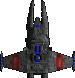
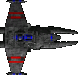
Implemented rotation and movement. Created messages to get/update ship parameters. Added init_world transform setting for the ships. All ship parameters are now uint16 and tweaked their values to get a decent gameplay response

diff --git a/include/messages.h b/include/messages.h
@@ -12,7 +12,13 @@ enum EMessageType {
 	EMT_GET_POS,
 	EMT_GET_ROT,
 	EMT_UPDATE_POS,
-	EMT_UPDATE_ROT
+	EMT_UPDATE_ROT,
+	EMT_GET_HP,
+	EMT_UPDATE_HP,
+	EMT_GET_ENERGY,
+	EMT_UPDATE_ENERGY,
+	EMT_GET_LINEAR_SPEED,
+	EMT_GET_ANGULAR_SPEED
 };
 
 struct SMessage {
@@ -29,13 +35,6 @@ struct SInputMsg: public SMessage {
 	uint32 m_id;
 };
 
-struct SUpdatePosMsg: public SMessage {
-	SUpdatePosMsg(): SMessage(EMT_UPDATE_POS) {}
-	SUpdatePosMsg(float offsetX, float offsetY): SMessage(EMT_UPDATE_POS),
-		m_offsetX(offsetX), m_offsetY(offsetY) {}
-	float m_offsetX, m_offsetY;
-};
-
 struct SSetPosMsg: public SMessage {
 	SSetPosMsg(): SMessage(EMT_SET_POS) {}
 	SSetPosMsg(float x, float y): SMessage(EMT_SET_POS),
@@ -44,12 +43,23 @@ struct SSetPosMsg: public SMessage {
 	float m_x, m_y;
 };
 
-struct SUpdateRotMsg: public SMessage {
-	SUpdateRotMsg(): SMessage(EMT_UPDATE_ROT) {}
-	SUpdateRotMsg(float offsetR): SMessage(EMT_UPDATE_ROT),
-		m_offsetRot(offsetR) {
+struct SGetPosMsg: public SMessage {
+	SGetPosMsg(): SMessage(EMT_GET_POS), m_x(0), m_y(0), m_modified(false) {}
+	void SetPos(float x, float y) { m_x = x; m_y = y; m_modified = true; }
+	float GetX() const { return m_x; }
+	float GetY() const { return m_y; }
+	bool Modified() { return m_modified; }
+private:
+	float m_x, m_y;
+	bool m_modified;
+};
+
+struct SUpdatePosMsg: public SMessage {
+	SUpdatePosMsg(): SMessage(EMT_UPDATE_POS) {}
+	SUpdatePosMsg(float offsetX, float offsetY): SMessage(EMT_UPDATE_POS),
+		m_offsetX(offsetX), m_offsetY(offsetY) {
 	}
-	float m_offsetRot;
+	float m_offsetX, m_offsetY;
 };
 
 struct SSetRotMsg: public SMessage {
@@ -60,28 +70,71 @@ struct SSetRotMsg: public SMessage {
 	float m_rot;
 };
 
-struct SGetPosMsg: public SMessage {
-	SGetPosMsg(): SMessage(EMT_GET_POS) {}
-	void SetPos(float x, float y) {
-		m_x = x;
-		m_y = y;
-		m_modified = true;
-	}
+struct SGetRotMsg: public SMessage {
+	SGetRotMsg(): SMessage(EMT_GET_ROT), m_angle(0), m_modified(false) {}
+	void SetRot(float angle) { m_angle = angle; m_modified = true; }
+	float GetAngle() const { return m_angle; }
 	bool Modified() { return m_modified; }
-	float m_x, m_y;
 private:
+	float m_angle;
 	bool m_modified;
 };
 
-struct SGetRotMsg: public SMessage {
-	SGetRotMsg(): SMessage(EMT_GET_ROT) {}
-	void SetRot(float angle) {
-		m_angle = angle;
-		m_modified = true;
+struct SUpdateRotMsg: public SMessage {
+	SUpdateRotMsg(): SMessage(EMT_UPDATE_ROT) {}
+	SUpdateRotMsg(float offsetR): SMessage(EMT_UPDATE_ROT),
+		m_offsetRot(offsetR) {
 	}
+	float m_offsetRot;
+};
+
+struct SGetHitPointsMsg: public SMessage {
+	SGetHitPointsMsg(): SMessage(EMT_GET_HP), m_hitPoints(0) {}
+	void SetHitPoints(uint16 hp) { m_hitPoints = hp; m_modified = true;	}
+	uint16 GetHitPoints() const { return m_hitPoints; }
 	bool Modified() { return m_modified; }
-	float m_angle;
 private:
+	uint16 m_hitPoints;
+	bool m_modified;
+};
+
+struct SUpdateHitPointsMsg: public SMessage {
+	SUpdateHitPointsMsg(uint16 dmg = 0): SMessage(EMT_UPDATE_HP), m_damage(dmg) {}
+	uint16 m_damage;
+};
+
+struct SGetEnergyMsg: public SMessage {
+	SGetEnergyMsg(): SMessage(EMT_GET_ENERGY), m_energy(0) {}
+	void SetEnergy(uint16 en) { m_energy = en; m_modified = true; }
+	uint16 GetEnergy() const { return m_energy; }
+	bool Modified() { return m_modified; }
+private:
+	uint16 m_energy;
+	bool m_modified;
+};
+
+struct SUpdateEnergyMsg: public SMessage {
+	SUpdateEnergyMsg(uint16 energy = 0): SMessage(EMT_UPDATE_ENERGY), m_energy(energy) {}
+	uint16 m_energy;
+};
+
+struct SGetLinSpeedMsg: public SMessage {
+	SGetLinSpeedMsg(): SMessage(EMT_GET_LINEAR_SPEED), m_linSpeed(0) {}
+	void SetLinSpeed(uint16 lSpeed) { m_linSpeed = lSpeed; m_modified = true; }
+	int16 GetLinSpeed() const { return m_linSpeed; }
+	bool Modified() { return m_modified; }
+private:
+	int16 m_linSpeed;
+	bool m_modified;
+};
+
+struct SGetAngSpeedMsg: public SMessage {
+	SGetAngSpeedMsg(): SMessage(EMT_GET_ANGULAR_SPEED), m_angSpeed(0) {}
+	void SetAngSpeed(uint16 aSpeed) { m_angSpeed = aSpeed; m_modified = true; }
+	int16 GetAngSpeed() const { return m_angSpeed; }
+	bool Modified() { return m_modified; }
+private:
+	int16 m_angSpeed;
 	bool m_modified;
 };
 

diff --git a/src/comp_playercontrol.cpp b/src/comp_playercontrol.cpp
@@ -5,40 +5,79 @@
 #include "../include/entity.h"
 #include "../include/messages.h"
 #include "../include/math.h"
+#include "../include/screen.h"
 
 CCompPlayerControl::CCompPlayerControl(CEntity * et): CComponent(et) {
 	SetType(EC_PLAYER_CONTROL);
 }
 
 void CCompPlayerControl::ReceiveMessage(SMessage &msg) {
+	double elapsed = Screen::Instance().ElapsedTime();
 	if (msg.m_type == EMT_INPUT) {
 		SInputMsg &inputMsg = reinterpret_cast<SInputMsg &>(msg);
 		if (inputMsg.m_controller == EEC_KEYBOARD) {
 			if (inputMsg.m_id == m_controls[0]) { //up
-				SGetRotMsg getRotMsg;
-				m_owner->ReceiveMessage(getRotMsg);
-
-				float offsetX = kPosUpdateOffset;
-				float offsetY = kPosUpdateOffset;
-				if (getRotMsg.Modified()) {
-					offsetX *= cos(WrapValue(getRotMsg.m_angle, 360));
-					offsetY *= sin(WrapValue(getRotMsg.m_angle, 360));
+				float offsetX = 0, offsetY = 0;
+				if (GetLinearOffset(offsetX, offsetY)) {
+					SUpdatePosMsg updateMsg(offsetX, offsetY);
+					m_owner->ReceiveMessage(updateMsg);
 				}
-
-				SUpdatePosMsg updateMsg(offsetX, offsetY);
-				m_owner->ReceiveMessage(updateMsg);
 			} else if (inputMsg.m_id == m_controls[1]) { //down
-				SUpdatePosMsg updateMsg(0, kPosUpdateOffset);
-				m_owner->ReceiveMessage(updateMsg);
+				float offsetX = 0, offsetY = 0;
+				GetLinearOffset(offsetX, offsetY);
+
+				if (GetLinearOffset(offsetX, offsetY)) {
+					SUpdatePosMsg updateMsg(-offsetX, -offsetY);
+					m_owner->ReceiveMessage(updateMsg);
+				}
 			} else if (inputMsg.m_id == m_controls[2]) { //left
-				SUpdateRotMsg updateMsg(-kRotationRate);
-				m_owner->ReceiveMessage(updateMsg);
-			} else if (inputMsg.m_id == m_controls[3]) { //rigth
-				SUpdateRotMsg updateMsg(kRotationRate);
-				m_owner->ReceiveMessage(updateMsg);
+				SGetAngSpeedMsg angSpeedMsg;
+				m_owner->ReceiveMessage(angSpeedMsg);
+				if (angSpeedMsg.Modified()) {
+					SUpdateRotMsg updateMsg(
+						static_cast<float>(angSpeedMsg.GetAngSpeed() * elapsed));
+					m_owner->ReceiveMessage(updateMsg);
+				}
+			} else if (inputMsg.m_id == m_controls[3]) { //right
+				SGetAngSpeedMsg angSpeedMsg;
+				m_owner->ReceiveMessage(angSpeedMsg);
+				if (angSpeedMsg.Modified()) {
+					SUpdateRotMsg updateMsg(
+						static_cast<float>(-angSpeedMsg.GetAngSpeed() * elapsed));
+					m_owner->ReceiveMessage(updateMsg);
+				}
 			}
 		}
 	}
+}
+
+bool CCompPlayerControl::GetLinearOffset(float &offsetX, float &offsetY) const {
+	double elapsed = Screen::Instance().ElapsedTime();
+	bool ret = true;
+
+	SGetRotMsg getRotMsg;
+	m_owner->ReceiveMessage(getRotMsg);
+	float angle = 0;
+	if (getRotMsg.Modified())
+		angle = getRotMsg.GetAngle();
+	else
+		ret = false;
+
+	SGetLinSpeedMsg getLinSpeedMsg;
+	m_owner->ReceiveMessage(getLinSpeedMsg);
+	int16 speed = 0;
+	if (getLinSpeedMsg.Modified())
+		speed = getLinSpeedMsg.GetLinSpeed();
+	else
+		ret = false;
+
+	if (getRotMsg.Modified()) {
+		offsetX = static_cast<float>(DegCos(WrapValue(angle, 360)) * elapsed * speed);
+		offsetY = static_cast<float>(-DegSin(WrapValue(angle, 360)) * elapsed * speed);
+	} else
+		ret = false;
+
+	return ret;
 }
 
 void CCompPlayerControl::Update(float elapsed) {

diff --git a/src/comp_shipparams.cpp b/src/comp_shipparams.cpp
@@ -6,13 +6,31 @@
 #include "../../include/screen.h"
 #include "../../include/sprite.h"
 
-CCompShipParams::CCompShipParams(CEntity * et, float linear, float angular,
-int16 energy, int16 hitpoints):
+CCompShipParams::CCompShipParams(CEntity * et, uint16 linear, uint16 angular,
+uint16 energy, uint16 hitpoints):
 	CComponent(et), m_linearSpeed(linear), m_angularSpeed(angular),
-	m_energy(energy), m_hitpoints(hitpoints) {}
+	m_energy(energy), m_hitPoints(hitpoints) {}
 
 void CCompShipParams::ReceiveMessage(SMessage &msg) {
-
+	if (msg.m_type == EMT_GET_HP) {
+		 SGetHitPointsMsg &getHPMsg = reinterpret_cast<SGetHitPointsMsg &>(msg);
+		 getHPMsg.SetHitPoints(m_hitPoints);
+	} else if (msg.m_type == EMT_UPDATE_HP) {
+		SUpdateHitPointsMsg &updateHPMsg = reinterpret_cast<SUpdateHitPointsMsg &>(msg);
+		m_hitPoints += updateHPMsg.m_damage;
+	} else if (msg.m_type == EMT_GET_ENERGY) {
+		SGetEnergyMsg &getEnergyMsg = reinterpret_cast<SGetEnergyMsg &>(msg);
+		getEnergyMsg.SetEnergy(m_energy);
+	} else if (msg.m_type == EMT_UPDATE_ENERGY) {
+		SUpdateEnergyMsg &updateEnergyMsg = reinterpret_cast<SUpdateEnergyMsg &>(msg);
+		m_energy += updateEnergyMsg.m_energy;
+	} else if (msg.m_type == EMT_GET_LINEAR_SPEED) {
+		SGetLinSpeedMsg &getLinSpeedMsg = reinterpret_cast<SGetLinSpeedMsg &>(msg);
+		getLinSpeedMsg.SetLinSpeed(m_linearSpeed);
+	} else if (msg.m_type == EMT_GET_ANGULAR_SPEED) {
+		SGetAngSpeedMsg &getAngSpeedMsg = reinterpret_cast<SGetAngSpeedMsg &>(msg);
+		getAngSpeedMsg.SetAngSpeed(m_angularSpeed);
+	}
 }
 
 void CCompShipParams::Update(float elapsed) {

diff --git a/src/entities_factory.cpp b/src/entities_factory.cpp
@@ -56,6 +56,9 @@ CEntity * CEntitiesFactory::SpawnEntity(const SEntityParams &params) {
 	AddComponents(et, params);
 
 	/* LOOKING INSIDE init_world.json and setting position/rotation */
+	CCompTransform * transform = new CCompTransform(et, 0, 0);
+	et->AddComponent(transform); //will be set when init_world.json is parsed
+
 	FILE * wFile = fopen("data/conf/init_world.json", "rb");
 	char buffer[65536];
 	assert(wFile != nullptr && "CEntitiesFactory::SpawnEntity()");
@@ -132,8 +135,8 @@ void CEntitiesFactory::AddComponents(CEntity * const entity, const SEntityParams
 	const rapidjson::Value &parameters = ship.FindMember("parameters")->value;
 
 	//ship params
-	float linearSpeed = parameters["linearSpeed"].GetFloat();
-	float angularSpeed = parameters["angularSpeed"].GetFloat();
+	uint16 linearSpeed = static_cast<uint16>(parameters["linearSpeed"].GetInt());
+	uint16 angularSpeed = static_cast<uint16>(parameters["angularSpeed"].GetInt());
 	int16 energy = static_cast<int16>(parameters["energy"].GetInt());
 	int16 hitpoints = static_cast<int16>(parameters["hitpoints"].GetInt());
 	

diff --git a/include/comp_shipparams.h b/include/comp_shipparams.h
@@ -9,15 +9,15 @@ class Sprite;
 
 class CCompShipParams: public CComponent {
 public:
-	CCompShipParams(CEntity * et, float linear, float angular,
-		int16 energy, int16 hitpoints);
+	CCompShipParams(CEntity * et, uint16 linear, uint16 angular,
+		uint16 energy, uint16 hitpoints);
 
 	virtual void ReceiveMessage(SMessage &msg);
 	virtual void Update(float elapsed);
 	void Render();
 private:
-	float m_linearSpeed, m_angularSpeed;
-	int16 m_energy, m_hitpoints;
+	uint16 m_linearSpeed, m_angularSpeed;
+	uint16 m_energy, m_hitPoints;
 };
 
 #endif //!_COMPONENT_SHIP_PARAMS_H

diff --git a/src/comp_transform.cpp b/src/comp_transform.cpp
@@ -15,6 +15,9 @@ void CCompTransform::ReceiveMessage(SMessage &msg) {
 	if (msg.m_type == EMT_GET_POS) {
 		SGetPosMsg &getPosMsg = reinterpret_cast<SGetPosMsg &>(msg);
 		getPosMsg.SetPos(m_x, m_y);
+	} else if (msg.m_type == EMT_GET_ROT) {
+		SGetRotMsg &rotMsg = reinterpret_cast<SGetRotMsg &>(msg);
+		rotMsg.SetRot(m_rotation);
 	} else if (msg.m_type == EMT_UPDATE_POS) {
 		SUpdatePosMsg &moveMsg = reinterpret_cast<SUpdatePosMsg &>(msg);
 		m_x += moveMsg.m_offsetX;

diff --git a/include/comp_playercontrol.h b/include/comp_playercontrol.h
@@ -20,7 +20,7 @@ public:
 
 	void SetControls(uint16 controls[kEntityNumControls]);
 private:
-
+	bool GetLinearOffset(float &offsetX, float &offsetY) const;
 	//up, down, left, right, weapon1, weapon2
 	uint16 m_controls[kEntityNumControls];
 };
